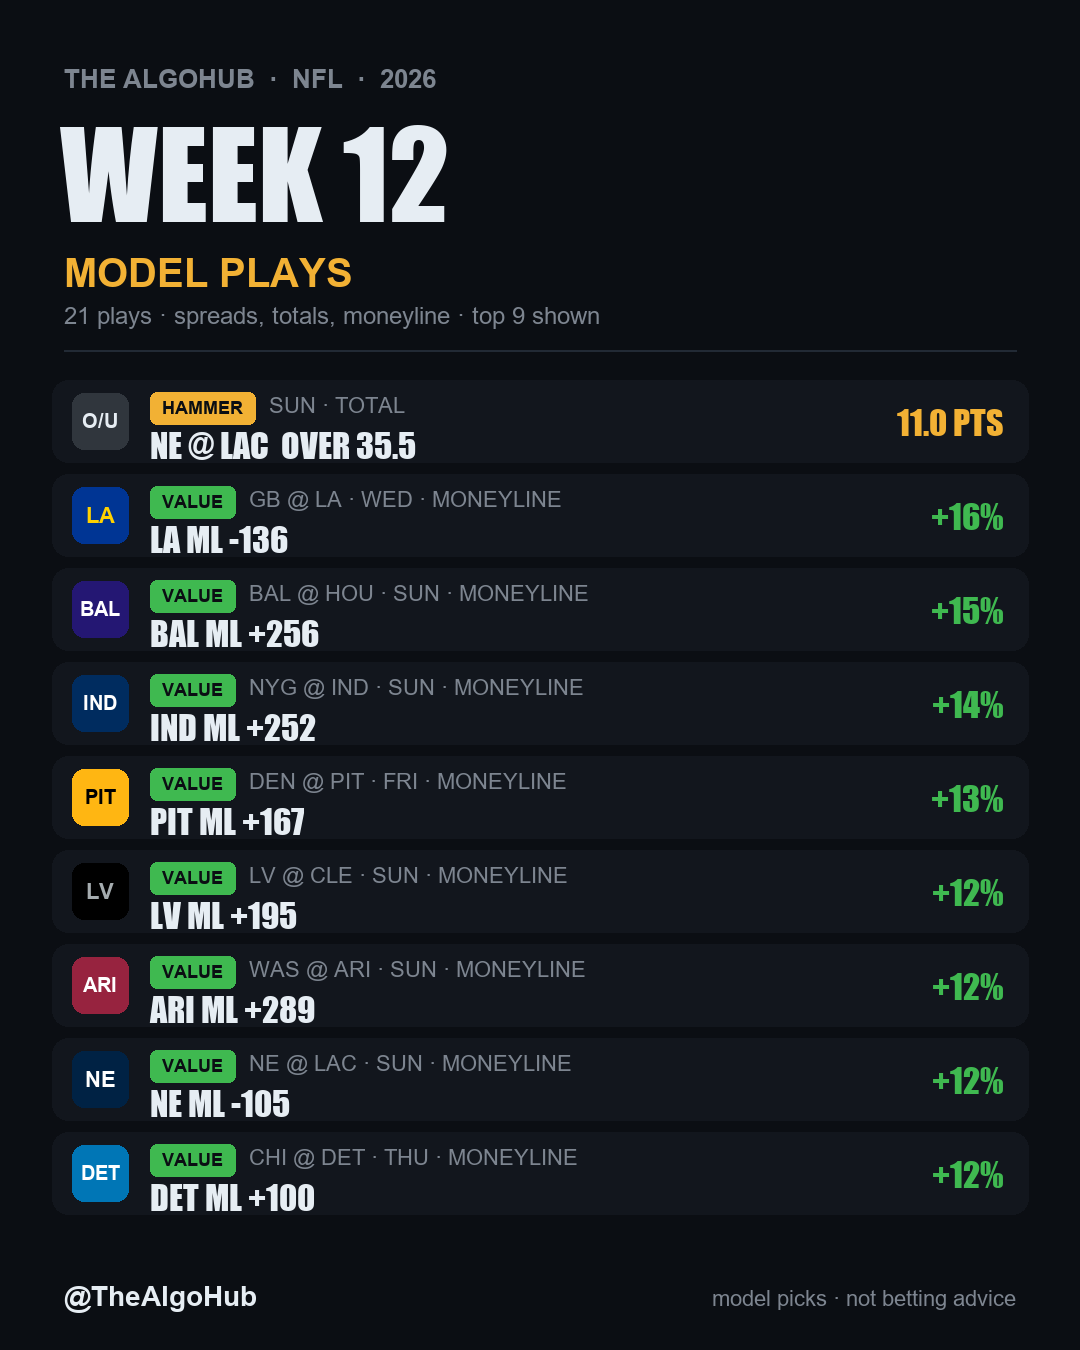
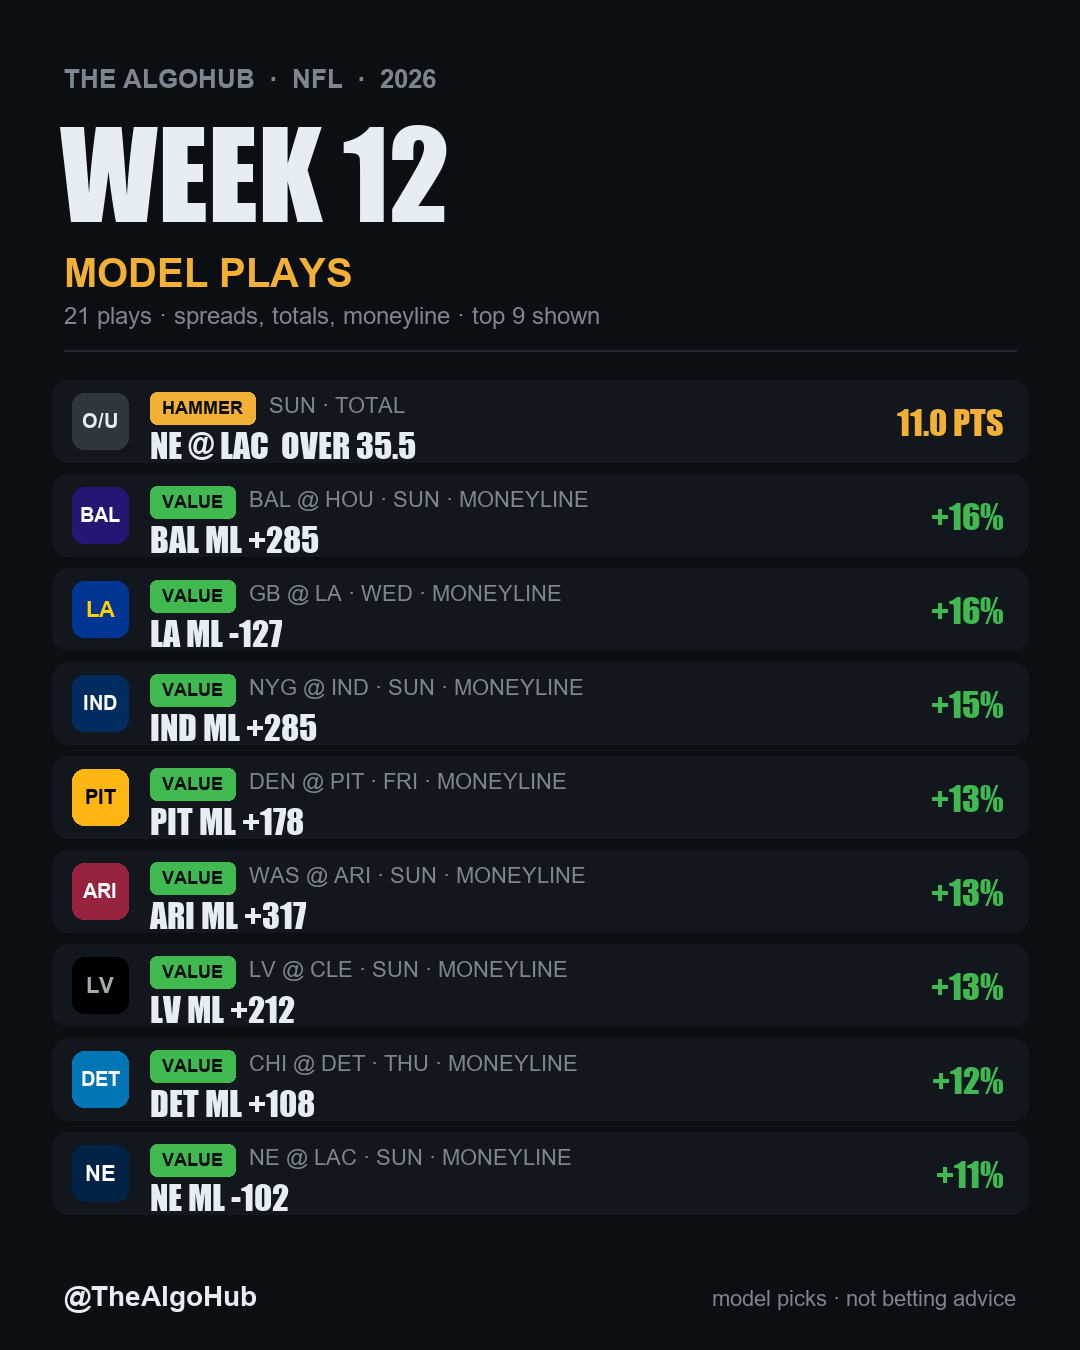
auto: week 12 Wed 10:05

diff --git a/cards/2026_wk12.html b/cards/2026_wk12.html
@@ -86,7 +86,7 @@ background:#0f1319;color:var(--tx);padding:13px 16px;font:700 11px Inter,system-
     <div><div class="k">THE ALGOHUB · NFL GAME ALGO · 2026</div><h1>WEEK 12</h1></div>
     <div class="stats">
       <div><small>GAMES</small><b>16</b></div>
-      <div class="p"><small>PLAYS</small><b>12</b></div>
+      <div class="p"><small>PLAYS</small><b>10</b></div>
       <div class="h"><small>HAMMERS</small><b>1</b></div>
       <div class="pp"><small>PROP PLAYS</small><b>30</b></div>
     </div>
@@ -129,13 +129,13 @@ background:#0f1319;color:var(--tx);padding:13px 16px;font:700 11px Inter,system-
       <div class="mkt">
         <div class="mlabel">TOTAL</div>
         <div class="cols">
-          <div><small>VEGAS</small><span>44</span></div>
+          <div><small>VEGAS</small><span>43.5</span></div>
           <div><small>MODEL</small><span>45.7</span></div>
-          <div class="edge "><small>EDGE</small><span>1.7</span></div>
+          <div class="edge "><small>EDGE</small><span>2.2</span></div>
         </div>
         <div class="pick none">NO PLAY</div>
       </div>
-      <div class="ml">ML VALUE <b>LA -136</b><span>+16.1% vs no-vig</span></div>
+      <div class="ml">ML VALUE <b>LA -127</b><span>+15.8% vs no-vig</span></div>
       <div class="strip"><div class="mlabel">EPA MATCHUP <em>(+ = offense edge)</em></div>
           <div class="srow"><span class="slab">GB PASS O <em>vs</em> LA D</span>
             <span class="sbar"><i class="neg" style="width:5.4%"></i></span>
@@ -481,7 +481,7 @@ background:#0f1319;color:var(--tx);padding:13px 16px;font:700 11px Inter,system-
   <section class="day" data-day="THU">
     <div class="dayhead"><h2>THURSDAY, NOVEMBER 26</h2><span>3 GAMES</span></div>
     <div class="grid">
-    <article class="card b-lean" data-day="THU" data-play="1" data-rank="1">
+    <article class="card b-play" data-day="THU" data-play="1" data-rank="2">
       <header class="meta"><span>THU · 1:00 PM ET</span><span>Ford Field</span></header>
       
       <div class="team ">
@@ -504,11 +504,11 @@ background:#0f1319;color:var(--tx);padding:13px 16px;font:700 11px Inter,system-
       <div class="mkt">
         <div class="mlabel">SPREAD</div>
         <div class="cols">
-          <div><small>VEGAS</small><span>CHI -1.0</span></div>
+          <div><small>VEGAS</small><span>CHI -1.5</span></div>
           <div><small>MODEL</small><span>DET -3.2</span></div>
-          <div class="edge hot"><small>EDGE</small><span>4.2</span></div>
+          <div class="edge hot"><small>EDGE</small><span>4.7</span></div>
         </div>
-        <div class="pick t-lean"><span class="tier">LEAN</span>DET +1.0</div>
+        <div class="pick t-play"><span class="tier">PLAY</span>DET +1.5</div>
       </div>
       
       <div class="mkt">
@@ -520,7 +520,7 @@ background:#0f1319;color:var(--tx);padding:13px 16px;font:700 11px Inter,system-
         </div>
         <div class="pick none">NO PLAY</div>
       </div>
-      <div class="ml">ML VALUE <b>DET +100</b><span>+11.6% vs no-vig</span></div>
+      <div class="ml">ML VALUE <b>DET +108</b><span>+11.6% vs no-vig</span></div>
       <div class="strip"><div class="mlabel">EPA MATCHUP <em>(+ = offense edge)</em></div>
           <div class="srow"><span class="slab">CHI PASS O <em>vs</em> DET D</span>
             <span class="sbar"><i class="pos" style="width:13.6%"></i></span>
@@ -890,9 +890,9 @@ background:#0f1319;color:var(--tx);padding:13px 16px;font:700 11px Inter,system-
       <div class="mkt">
         <div class="mlabel">TOTAL</div>
         <div class="cols">
-          <div><small>VEGAS</small><span>48</span></div>
+          <div><small>VEGAS</small><span>48.5</span></div>
           <div><small>MODEL</small><span>48.9</span></div>
-          <div class="edge "><small>EDGE</small><span>0.9</span></div>
+          <div class="edge "><small>EDGE</small><span>0.4</span></div>
         </div>
         <div class="pick none">NO PLAY</div>
       </div>
@@ -1236,9 +1236,9 @@ background:#0f1319;color:var(--tx);padding:13px 16px;font:700 11px Inter,system-
       <div class="mkt">
         <div class="mlabel">TOTAL</div>
         <div class="cols">
-          <div><small>VEGAS</small><span>47</span></div>
+          <div><small>VEGAS</small><span>46.5</span></div>
           <div><small>MODEL</small><span>47.3</span></div>
-          <div class="edge "><small>EDGE</small><span>0.3</span></div>
+          <div class="edge "><small>EDGE</small><span>0.8</span></div>
         </div>
         <div class="pick none">NO PLAY</div>
       </div>
@@ -1256,7 +1256,7 @@ background:#0f1319;color:var(--tx);padding:13px 16px;font:700 11px Inter,system-
           <div class="srow"><span class="slab">BUF RUSH O <em>vs</em> KC D</span>
             <span class="sbar"><i class="pos" style="width:13.3%"></i></span>
             <span class="sval pos">+0.08</span></div><div class="mlabel dlab">DEFENSE <em>(man/shell/pressure 2025 · blitz 2026)</em></div><div class="dline"><b>KC D</b><span>MAN 36% · C2 · PRESS 33% · BLITZ 26%</span></div><div class="dline"><b>BUF D</b><span>MAN 31% · C2 · PRESS 33% · BLITZ 35%</span></div></div>
-      <div class="chips"><span class="chip">KC SHORT WEEK</span><span class="chip">BUF SHORT WEEK</span><span class="chip">💨 38°F · 17 MPH · RAIN 92%</span></div>
+      <div class="chips"><span class="chip">KC SHORT WEEK</span><span class="chip">BUF SHORT WEEK</span><span class="chip">💨 38°F · 17 MPH · RAIN 100%</span></div>
       
       <button class="ptoggle" aria-expanded="false">PLAYER PROPS · 54 <em>7 PLAYS</em><span class="car">▾</span></button>
       <div class="props" hidden>
@@ -1577,7 +1577,7 @@ background:#0f1319;color:var(--tx);padding:13px 16px;font:700 11px Inter,system-
         </div>
         <div class="pick none">NO PLAY</div>
       </div>
-      <div class="ml">ML VALUE <b>PIT +167</b><span>+12.9% vs no-vig</span></div>
+      <div class="ml">ML VALUE <b>PIT +178</b><span>+13.1% vs no-vig</span></div>
       <div class="strip"><div class="mlabel">EPA MATCHUP <em>(+ = offense edge)</em></div>
           <div class="srow"><span class="slab">DEN PASS O <em>vs</em> PIT D</span>
             <span class="sbar"><i class="neg" style="width:0.6%"></i></span>
@@ -1591,7 +1591,7 @@ background:#0f1319;color:var(--tx);padding:13px 16px;font:700 11px Inter,system-
           <div class="srow"><span class="slab">PIT RUSH O <em>vs</em> DEN D</span>
             <span class="sbar"><i class="pos" style="width:23.9%"></i></span>
             <span class="sval pos">+0.14</span></div><div class="mlabel dlab">DEFENSE <em>(man/shell/pressure 2025 · blitz 2026)</em></div><div class="dline"><b>DEN D</b><span>MAN 44% · C1 · PRESS 34% · BLITZ 34%</span></div><div class="dline"><b>PIT D</b><span>MAN 36% · C3 · PRESS 29% · BLITZ 28%</span></div></div>
-      <div class="chips"><span class="chip">DEN SHORT WEEK</span><span class="chip">PIT SHORT WEEK</span><span class="chip">38°F · 12 MPH · RAIN 88%</span><span class="chip inj">OUT: Jk Dobbins</span><span class="chip inj">OUT: Michael Pittman</span></div>
+      <div class="chips"><span class="chip">DEN SHORT WEEK</span><span class="chip">PIT SHORT WEEK</span><span class="chip">38°F · 12 MPH · RAIN 87%</span><span class="chip inj">OUT: Jk Dobbins</span><span class="chip inj">OUT: Michael Pittman</span></div>
       
       <button class="ptoggle" aria-expanded="false">PLAYER PROPS · 65 <em>8 PLAYS</em><span class="car">▾</span></button>
       <div class="props" hidden>
@@ -1951,9 +1951,9 @@ background:#0f1319;color:var(--tx);padding:13px 16px;font:700 11px Inter,system-
       <div class="mkt">
         <div class="mlabel">SPREAD</div>
         <div class="cols">
-          <div><small>VEGAS</small><span>MIN -7.0</span></div>
+          <div><small>VEGAS</small><span>MIN -6.5</span></div>
           <div><small>MODEL</small><span>MIN -7.1</span></div>
-          <div class="edge "><small>EDGE</small><span>0.1</span></div>
+          <div class="edge "><small>EDGE</small><span>0.6</span></div>
         </div>
         <div class="pick none">NO PLAY</div>
       </div>
@@ -1967,7 +1967,7 @@ background:#0f1319;color:var(--tx);padding:13px 16px;font:700 11px Inter,system-
         </div>
         <div class="pick t-lean"><span class="tier">LEAN</span>OVER 41.5</div>
       </div>
-      
+      <div class="ml">ML VALUE <b>ATL +292</b><span>+4.6% vs no-vig</span></div>
       <div class="strip"><div class="mlabel">EPA MATCHUP <em>(+ = offense edge)</em></div>
           <div class="srow"><span class="slab">ATL PASS O <em>vs</em> MIN D</span>
             <span class="sbar"><i class="neg" style="width:44.7%"></i></span>
@@ -2132,23 +2132,23 @@ background:#0f1319;color:var(--tx);padding:13px 16px;font:700 11px Inter,system-
       <div class="mkt">
         <div class="mlabel">SPREAD</div>
         <div class="cols">
-          <div><small>VEGAS</small><span>HOU -7.0</span></div>
+          <div><small>VEGAS</small><span>HOU -6.5</span></div>
           <div><small>MODEL</small><span>HOU -2.6</span></div>
-          <div class="edge hot"><small>EDGE</small><span>4.4</span></div>
+          <div class="edge hot"><small>EDGE</small><span>3.9</span></div>
         </div>
-        <div class="pick t-lean"><span class="tier">LEAN</span>BAL +7.0</div>
+        <div class="pick t-lean"><span class="tier">LEAN</span>BAL +6.5</div>
       </div>
       
       <div class="mkt">
         <div class="mlabel">TOTAL</div>
         <div class="cols">
-          <div><small>VEGAS</small><span>47</span></div>
+          <div><small>VEGAS</small><span>47.5</span></div>
           <div><small>MODEL</small><span>48.8</span></div>
-          <div class="edge "><small>EDGE</small><span>1.8</span></div>
+          <div class="edge "><small>EDGE</small><span>1.3</span></div>
         </div>
         <div class="pick none">NO PLAY</div>
       </div>
-      <div class="ml">ML VALUE <b>BAL +256</b><span>+15.3% vs no-vig</span></div>
+      <div class="ml">ML VALUE <b>BAL +285</b><span>+16.5% vs no-vig</span></div>
       <div class="strip"><div class="mlabel">EPA MATCHUP <em>(+ = offense edge)</em></div>
           <div class="srow"><span class="slab">BAL PASS O <em>vs</em> HOU D</span>
             <span class="sbar"><i class="neg" style="width:2.8%"></i></span>
@@ -2290,7 +2290,7 @@ background:#0f1319;color:var(--tx);padding:13px 16px;font:700 11px Inter,system-
           </div>
       </div>
     </article>
-    <article class="card b-lean" data-day="SUN" data-play="1" data-rank="1">
+    <article class="card b-none" data-day="SUN" data-play="0" data-rank="0">
       <header class="meta"><span>SUN · 1:00 PM ET</span><span>Paycor Stadium</span></header>
       
       <div class="team ">
@@ -2313,9 +2313,9 @@ background:#0f1319;color:var(--tx);padding:13px 16px;font:700 11px Inter,system-
       <div class="mkt">
         <div class="mlabel">SPREAD</div>
         <div class="cols">
-          <div><small>VEGAS</small><span>CIN -10.0</span></div>
+          <div><small>VEGAS</small><span>CIN -9.5</span></div>
           <div><small>MODEL</small><span>CIN -12.3</span></div>
-          <div class="edge "><small>EDGE</small><span>2.3</span></div>
+          <div class="edge "><small>EDGE</small><span>2.8</span></div>
         </div>
         <div class="pick none">NO PLAY</div>
       </div>
@@ -2323,11 +2323,11 @@ background:#0f1319;color:var(--tx);padding:13px 16px;font:700 11px Inter,system-
       <div class="mkt">
         <div class="mlabel">TOTAL</div>
         <div class="cols">
-          <div><small>VEGAS</small><span>50.5</span></div>
+          <div><small>VEGAS</small><span>45.5</span></div>
           <div><small>MODEL</small><span>46.1</span></div>
-          <div class="edge hot"><small>EDGE</small><span>4.4</span></div>
+          <div class="edge "><small>EDGE</small><span>0.6</span></div>
         </div>
-        <div class="pick t-lean"><span class="tier">LEAN</span>UNDER 50.5</div>
+        <div class="pick none">NO PLAY</div>
       </div>
       
       <div class="strip"><div class="mlabel">EPA MATCHUP <em>(+ = offense edge)</em></div>
@@ -2343,7 +2343,7 @@ background:#0f1319;color:var(--tx);padding:13px 16px;font:700 11px Inter,system-
           <div class="srow"><span class="slab">CIN RUSH O <em>vs</em> NO D</span>
             <span class="sbar"><i class="pos" style="width:7.1%"></i></span>
             <span class="sval pos">+0.04</span></div><div class="mlabel dlab">DEFENSE <em>(man/shell/pressure 2025 · blitz 2026)</em></div><div class="dline"><b>NO D</b><span>MAN 22% · C3 · PRESS 28% · BLITZ 37%</span></div><div class="dline"><b>CIN D</b><span>MAN 36% · C3 · PRESS 30% · BLITZ 15%</span></div></div>
-      <div class="chips"><span class="chip">51°F · 9 MPH · RAIN 60%</span></div>
+      <div class="chips"><span class="chip">51°F · 9 MPH · RAIN 79%</span></div>
       
       <button class="ptoggle" aria-expanded="false">PLAYER PROPS · 24<span class="car">▾</span></button>
       <div class="props" hidden>
@@ -2510,7 +2510,7 @@ background:#0f1319;color:var(--tx);padding:13px 16px;font:700 11px Inter,system-
         </div>
         <div class="pick t-lean"><span class="tier">LEAN</span>OVER 41.5</div>
       </div>
-      <div class="ml">ML VALUE <b>IND +252</b><span>+13.6% vs no-vig</span></div>
+      <div class="ml">ML VALUE <b>IND +285</b><span>+15.0% vs no-vig</span></div>
       <div class="strip"><div class="mlabel">EPA MATCHUP <em>(+ = offense edge)</em></div>
           <div class="srow"><span class="slab">NYG PASS O <em>vs</em> IND D</span>
             <span class="sbar"><i class="pos" style="width:8.7%"></i></span>
@@ -2691,7 +2691,7 @@ background:#0f1319;color:var(--tx);padding:13px 16px;font:700 11px Inter,system-
         </div>
         <div class="pick none">NO PLAY</div>
       </div>
-      
+      <div class="ml">ML VALUE <b>MIA +182</b><span>+4.5% vs no-vig</span></div>
       <div class="strip"><div class="mlabel">EPA MATCHUP <em>(+ = offense edge)</em></div>
           <div class="srow"><span class="slab">NYJ PASS O <em>vs</em> MIA D</span>
             <span class="sbar"><i class="pos" style="width:17.1%"></i></span>
@@ -3037,11 +3037,11 @@ background:#0f1319;color:var(--tx);padding:13px 16px;font:700 11px Inter,system-
       <div class="mkt">
         <div class="mlabel">SPREAD</div>
         <div class="cols">
-          <div><small>VEGAS</small><span>LAC -1.0</span></div>
+          <div><small>VEGAS</small><span>NE -1.5</span></div>
           <div><small>MODEL</small><span>NE -3.7</span></div>
-          <div class="edge hot"><small>EDGE</small><span>4.7</span></div>
+          <div class="edge "><small>EDGE</small><span>2.2</span></div>
         </div>
-        <div class="pick t-play"><span class="tier">PLAY</span>NE +1.0</div>
+        <div class="pick none">NO PLAY</div>
       </div>
       
       <div class="mkt">
@@ -3053,7 +3053,7 @@ background:#0f1319;color:var(--tx);padding:13px 16px;font:700 11px Inter,system-
         </div>
         <div class="pick t-hammer"><span class="tier">HAMMER</span>OVER 35.5</div>
       </div>
-      <div class="ml">ML VALUE <b>NE -105</b><span>+11.8% vs no-vig</span></div>
+      <div class="ml">ML VALUE <b>NE -102</b><span>+10.9% vs no-vig</span></div>
       <div class="strip"><div class="mlabel">EPA MATCHUP <em>(+ = offense edge)</em></div>
           <div class="srow"><span class="slab">NE PASS O <em>vs</em> LAC D</span>
             <span class="sbar"><i class="pos" style="width:6.5%"></i></span>
@@ -3080,7 +3080,7 @@ background:#0f1319;color:var(--tx);padding:13px 16px;font:700 11px Inter,system-
           </div>
       </div>
     </article>
-    <article class="card b-play" data-day="SUN" data-play="1" data-rank="2">
+    <article class="card b-lean" data-day="SUN" data-play="1" data-rank="1">
       <header class="meta"><span>SUN · 4:25 PM ET</span><span>Levi&#x27;s Stadium</span></header>
       
       <div class="team ">
@@ -3103,23 +3103,23 @@ background:#0f1319;color:var(--tx);padding:13px 16px;font:700 11px Inter,system-
       <div class="mkt">
         <div class="mlabel">SPREAD</div>
         <div class="cols">
-          <div><small>VEGAS</small><span>SF -3.0</span></div>
+          <div><small>VEGAS</small><span>SF -3.5</span></div>
           <div><small>MODEL</small><span>SF -7.8</span></div>
-          <div class="edge hot"><small>EDGE</small><span>4.8</span></div>
+          <div class="edge hot"><small>EDGE</small><span>4.3</span></div>
         </div>
-        <div class="pick t-play"><span class="tier">PLAY</span>SF -3.0</div>
+        <div class="pick t-lean"><span class="tier">LEAN</span>SF -3.5</div>
       </div>
       
       <div class="mkt">
         <div class="mlabel">TOTAL</div>
         <div class="cols">
-          <div><small>VEGAS</small><span>45</span></div>
+          <div><small>VEGAS</small><span>45.5</span></div>
           <div><small>MODEL</small><span>46.5</span></div>
-          <div class="edge "><small>EDGE</small><span>1.5</span></div>
+          <div class="edge "><small>EDGE</small><span>1.0</span></div>
         </div>
         <div class="pick none">NO PLAY</div>
       </div>
-      <div class="ml">ML VALUE <b>SF -170</b><span>+11.1% vs no-vig</span></div>
+      <div class="ml">ML VALUE <b>SF -163</b><span>+10.5% vs no-vig</span></div>
       <div class="strip"><div class="mlabel">EPA MATCHUP <em>(+ = offense edge)</em></div>
           <div class="srow"><span class="slab">SEA PASS O <em>vs</em> SF D</span>
             <span class="sbar"><i class="pos" style="width:7.1%"></i></span>
@@ -3464,9 +3464,9 @@ background:#0f1319;color:var(--tx);padding:13px 16px;font:700 11px Inter,system-
       <div class="mkt">
         <div class="mlabel">SPREAD</div>
         <div class="cols">
-          <div><small>VEGAS</small><span>WAS -7.0</span></div>
+          <div><small>VEGAS</small><span>WAS -6.5</span></div>
           <div><small>MODEL</small><span>WAS -4.6</span></div>
-          <div class="edge "><small>EDGE</small><span>2.4</span></div>
+          <div class="edge "><small>EDGE</small><span>1.9</span></div>
         </div>
         <div class="pick none">NO PLAY</div>
       </div>
@@ -3480,7 +3480,7 @@ background:#0f1319;color:var(--tx);padding:13px 16px;font:700 11px Inter,system-
         </div>
         <div class="pick t-lean"><span class="tier">LEAN</span>OVER 41.5</div>
       </div>
-      <div class="ml">ML VALUE <b>ARI +289</b><span>+11.8% vs no-vig</span></div>
+      <div class="ml">ML VALUE <b>ARI +317</b><span>+12.8% vs no-vig</span></div>
       <div class="strip"><div class="mlabel">EPA MATCHUP <em>(+ = offense edge)</em></div>
           <div class="srow"><span class="slab">WAS PASS O <em>vs</em> ARI D</span>
             <span class="sbar"><i class="pos" style="width:20.1%"></i></span>
@@ -3656,7 +3656,7 @@ background:#0f1319;color:var(--tx);padding:13px 16px;font:700 11px Inter,system-
         </div>
         <div class="pick none">NO PLAY</div>
       </div>
-      <div class="ml">ML VALUE <b>LV +195</b><span>+11.9% vs no-vig</span></div>
+      <div class="ml">ML VALUE <b>LV +212</b><span>+12.6% vs no-vig</span></div>
       <div class="strip"><div class="mlabel">EPA MATCHUP <em>(+ = offense edge)</em></div>
           <div class="srow"><span class="slab">LV PASS O <em>vs</em> CLE D</span>
             <span class="sbar"><i class="pos" style="width:1.1%"></i></span>
@@ -3670,7 +3670,7 @@ background:#0f1319;color:var(--tx);padding:13px 16px;font:700 11px Inter,system-
           <div class="srow"><span class="slab">CLE RUSH O <em>vs</em> LV D</span>
             <span class="sbar"><i class="neg" style="width:3.0%"></i></span>
             <span class="sval neg">-0.02</span></div><div class="mlabel dlab">DEFENSE <em>(man/shell/pressure 2025 · blitz 2026)</em></div><div class="dline"><b>LV D</b><span>MAN 20% · C3 · PRESS 27% · BLITZ 29%</span></div><div class="dline"><b>CLE D</b><span>MAN 41% · C1 · PRESS 35% · BLITZ 27%</span></div></div>
-      <div class="chips"><span class="chip">CLE OFF BYE</span><span class="chip">💨 50°F · 17 MPH · RAIN 67%</span><span class="chip">LV CROSS-COUNTRY</span><span class="chip inj">OUT: Raheim Sanders</span></div>
+      <div class="chips"><span class="chip">CLE OFF BYE</span><span class="chip">💨 50°F · 17 MPH · RAIN 89%</span><span class="chip">LV CROSS-COUNTRY</span><span class="chip inj">OUT: Raheim Sanders</span></div>
       
       <button class="ptoggle" aria-expanded="false">PLAYER PROPS · 23<span class="car">▾</span></button>
       <div class="props" hidden>
@@ -3820,9 +3820,9 @@ background:#0f1319;color:var(--tx);padding:13px 16px;font:700 11px Inter,system-
       <div class="mkt">
         <div class="mlabel">SPREAD</div>
         <div class="cols">
-          <div><small>VEGAS</small><span>TB -3.0</span></div>
+          <div><small>VEGAS</small><span>TB -2.5</span></div>
           <div><small>MODEL</small><span>TB -3.9</span></div>
-          <div class="edge "><small>EDGE</small><span>0.9</span></div>
+          <div class="edge "><small>EDGE</small><span>1.4</span></div>
         </div>
         <div class="pick none">NO PLAY</div>
       </div>
